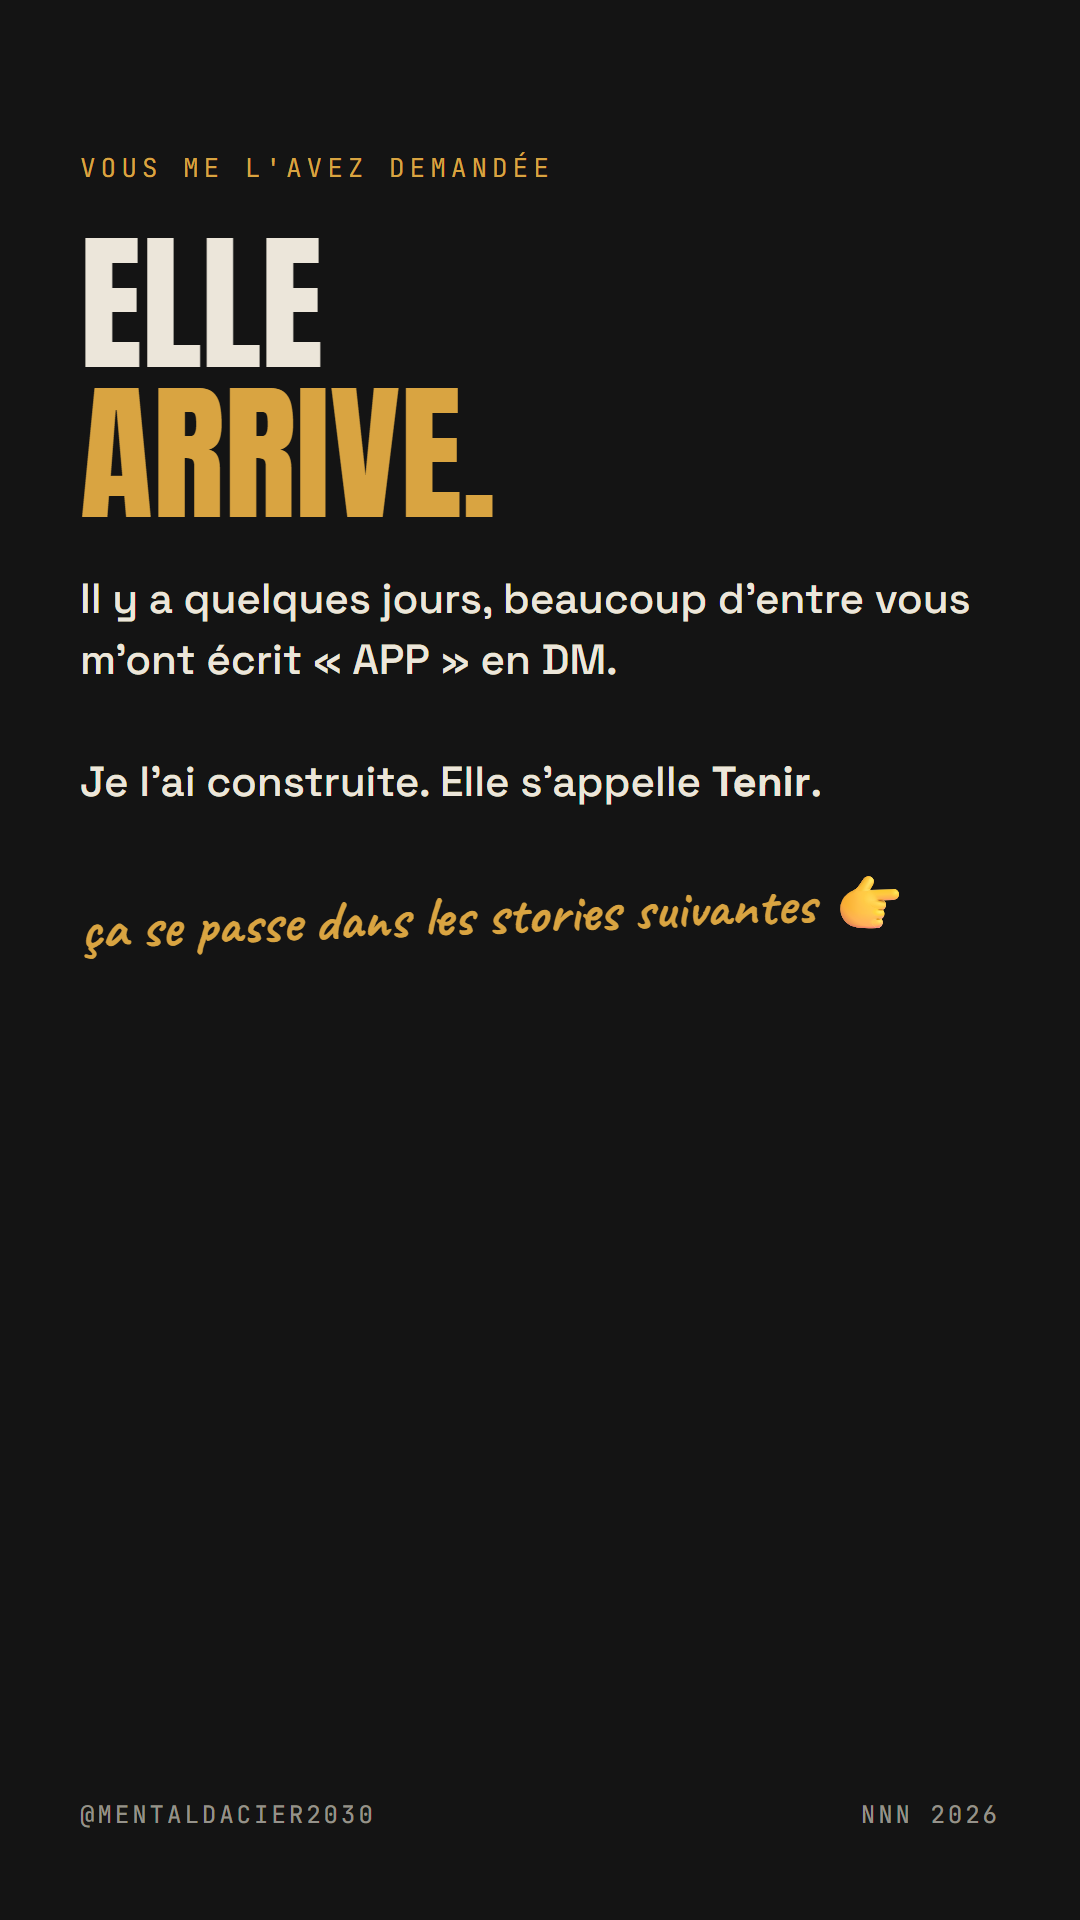
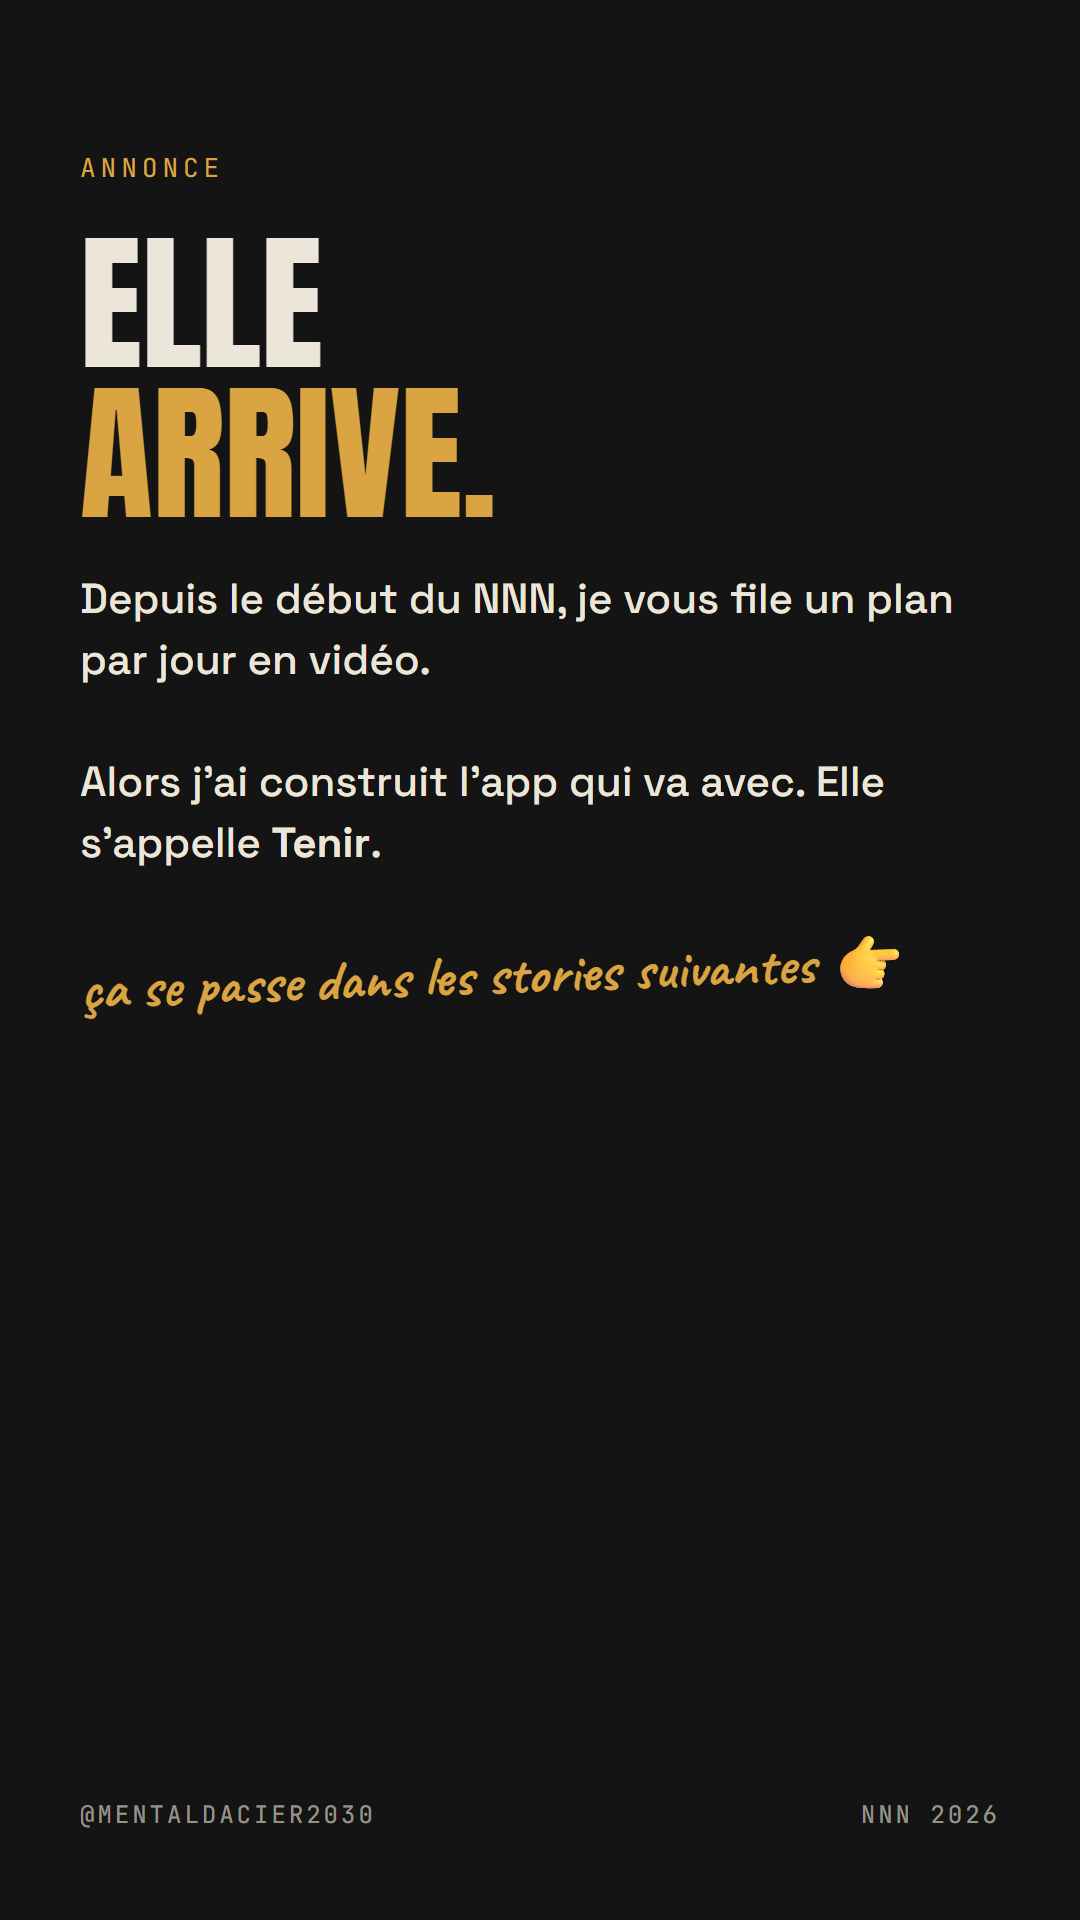
Stories de lancement : rien de faux en story 1, 50 places affichées en story 5

diff --git a/tools/stories_lancement.py b/tools/stories_lancement.py
@@ -29,8 +29,8 @@ def bloc(tag, titre, texte="", apres="", taille=104):
 
 
 VIS = {
- "lancement-1-annonce": bloc("VOUS ME L'AVEZ DEMANDÉE", "Elle<br><em>arrive.</em>",
-     "Il y a quelques jours, beaucoup d'entre vous m'ont écrit « APP » en DM.<br><br>Je l'ai construite. Elle s'appelle <b>Tenir</b>.",
+ "lancement-1-annonce": bloc("ANNONCE", "Elle<br><em>arrive.</em>",
+     "Depuis le début du NNN, je vous file un plan par jour en vidéo.<br><br>Alors j'ai construit l'app qui va avec. Elle s'appelle <b>Tenir</b>.",
      "<div class='main' style='margin-top:70px'>ça se passe dans les stories suivantes 👉</div>", taille=150),
  "lancement-2-mission": bloc("TENIR · 1/3", "Ta mission<br><em>du jour.</em>",
      "Chaque matin, un truc concret à faire. 5 à 15 minutes. Rien à réfléchir.", capture("1_aujourdhui.png", 560), taille=96),
@@ -39,8 +39,10 @@ VIS = {
  "lancement-4-chauffe": bloc("TENIR · 3/3", "Quand ça<br><em>chauffe.</em>",
      "Un bouton rouge. 6 étapes, un timer, zéro réflexion. Pour les soirs où la volonté suffit plus.", capture("3_ca_chauffe.png", 560), taille=96),
  "lancement-5-ouverture": bloc("OUVERTURE", "Le 16<br><em>novembre.</em>",
-     "<b>Membre fondateur : 9,99 €/mois, bloqué à vie.</b><br>Seulement pour les premiers. Places limitées.<br><br>Tout est privé : pas de pseudo, rien de public, personne sait que tu l'utilises.",
-     "<div class='zone' style='height:300px;margin-top:50px'></div>", taille=150),
+     "<b>Membre fondateur : 9,99 €/mois, bloqué à vie.</b><br><br>Tout est privé : pas de pseudo, rien de public, personne sait que tu l'utilises.",
+     f"<div style='margin-top:44px;display:flex;align-items:center;gap:30px'><div style='font:400 190px/1 Anton;color:{OR}'>50</div>"
+     "<div style='font:400 64px/1.05 Anton;text-transform:uppercase'>places<br>seulement</div></div>"
+     "<div class='zone' style='height:280px;margin-top:40px'></div>", taille=150),
  "lancement-6-liste": page(f"""<div class='pad'>
  <div class='tag'>LISTE D'ATTENTE</div>
  <div class='t' style='margin-top:44px;font-size:110px'>Sois prévenu<br><em>en premier.</em></div>
